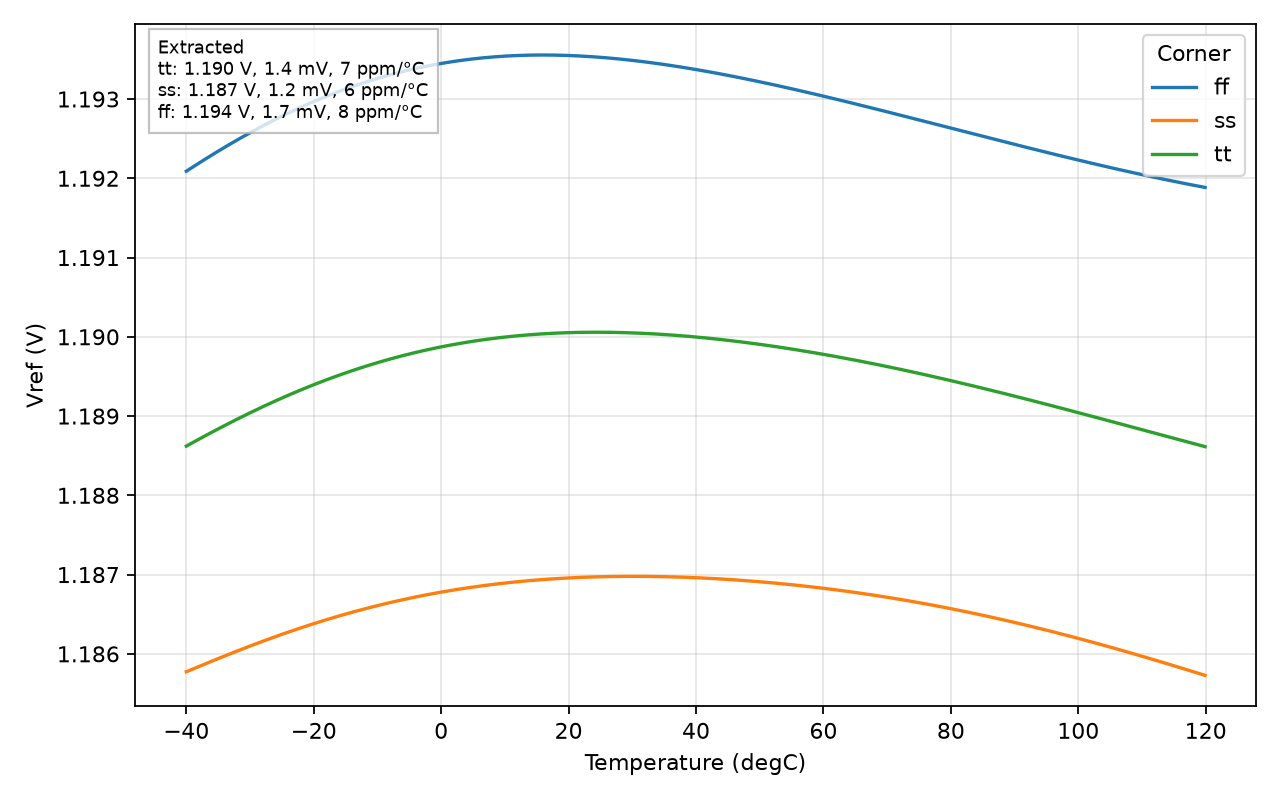
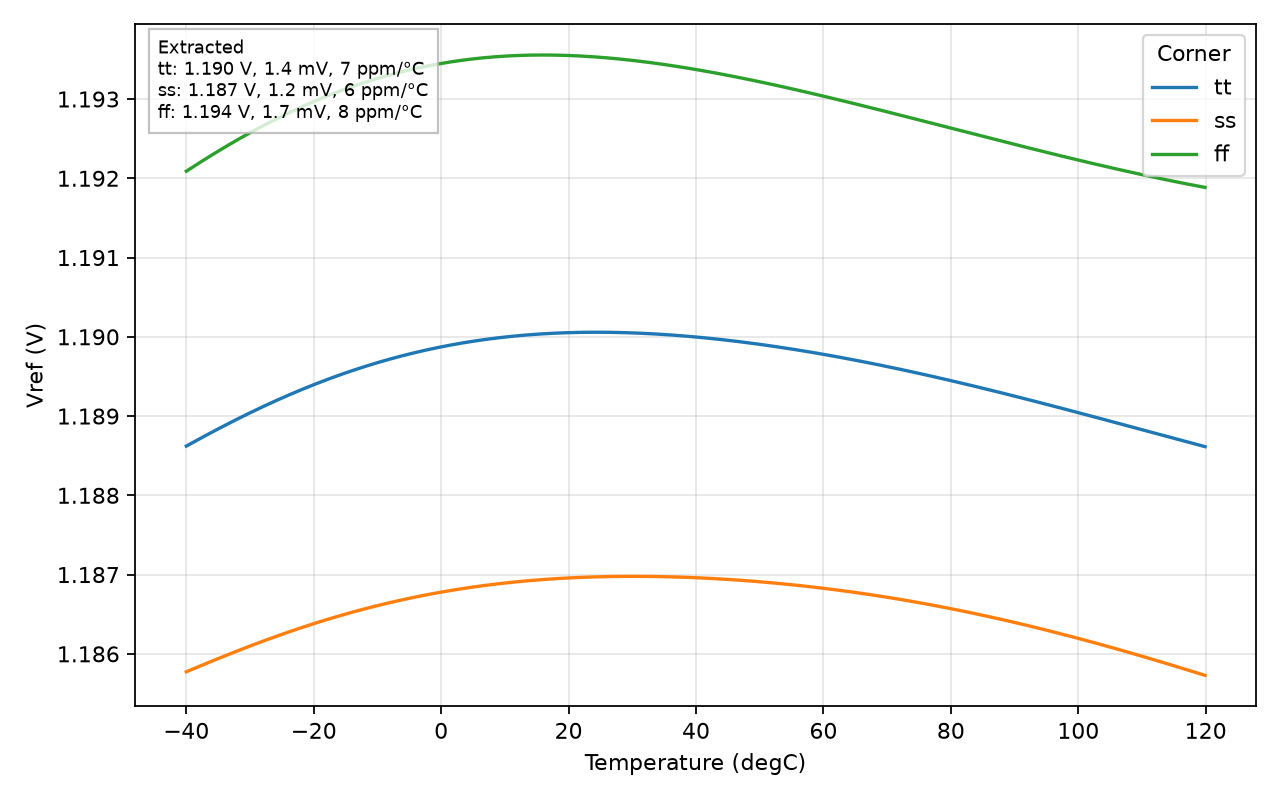
Clarify V2 and V3 operating regions

diff --git a/readme.md b/readme.md
@@ -8,17 +8,33 @@ The project is developed around an Xschem-first workflow. Xschem schematics
 are the source of truth; ngspice is used as the simulator through the
 schematic simulation setup and generated netlists.
 
+## What has been achieved
+
+- Built a 1.8 V bandgap reference around a PMOS-input OTA and an 8:2 PNP
+  emitter-area ratio.
+- Reworked the original diode-stacked topology into a lower-headroom feedback
+  topology with one PMOS and one BJT in each sensing branch.
+- Characterized the current V3 design from −40 °C to 120 °C across the `tt`,
+  `ss`, and `ff` SKY130 process corners.
+- Measured approximately 1.190 V at 27 °C, with 6--8 ppm/°C temperature
+  coefficient across the process corners.
+- Completed a 1,000-run `tt_mm` Monte Carlo analysis; the current design has
+  5.376% sample sigma relative to nominal, improved from the V2 result of
+  10.091%.
+- Verified that the PMOS devices in both V2 and V3 operate in the
+  weak-to-moderate inversion region.
+
 ## Project status
 
 - Target supply: 1.8 V
 - Process: SKY130A
 - Schematic editor: Xschem
 - Simulator: ngspice 47 or newer
-- Main circuit: bandgap reference with a two-stage amplifier
+- Main circuit: bandgap reference with a PMOS-input OTA
 
-The circuit is an experimental design and is not yet characterized as a
-production-ready reference. Startup, loop stability, PSRR, line regulation,
-and load regulation may still require additional work.
+The circuit is an experimental design, not a production-ready reference.
+Startup, loop stability, PSRR, line regulation, load regulation, and broader
+corner validation still require additional work.
 
 ## Requirements
 
@@ -90,11 +106,10 @@ simulation plots.
 
 ![OTA schematic](Bandgap/Schem_Res/OTA_schem.png)
 
-## Results
+## Generated outputs
 
-Rendered schematics and simulation plots are stored in
-`Bandgap/Schem_Res/`. The current repository includes the bandgap and OTA
-schematics, process-corner results, and Monte Carlo results.
+Rendered schematics, process-corner reports, and Monte Carlo plots are stored
+in `Bandgap/Schem_Res/`.
 
 ## Bandgap design evolution
 
@@ -112,18 +127,18 @@ This project evolved through the following stages:
    resistor model. V1 is the NMOS-input OTA baseline used for the first
    non-ideal implementation.
 3. **[V2 branch](https://github.com/iamanoob12/Bandgap/tree/V2)** - the
-   improved implementation uses a real two-stage OTA in the feedback loop,
+   improved implementation uses a PMOS-input OTA in the feedback loop,
    SKY130 high-poly (`res_high_po`) resistors, process-corner temperature
    sweeps, and Monte Carlo analysis. The typical-corner result is
-   approximately 1.161 V at 27 °C, with 4--6 ppm/°C temperature coefficient
+   approximately 1.161 V at 27 °C, with 6--8 ppm/°C temperature coefficient
    across the process corners.
 4. **[V3 branch](https://github.com/iamanoob12/Bandgap/tree/V3)** - keeps the
-   same bandgap topology and design concept as V2, while increasing the
-   transistor sizes in the OTA and Vbias-generation circuitry. The larger
-   devices are intended to reduce the OTA overdrive voltage ($V_{ov}$) and
-   improve the available operating margin. Like V2, V3 uses SKY130
-   high-poly (`res_high_po`) resistors. The current V3 typical-corner result
-   is approximately 1.190 V at 27 °C, with 6--8 ppm/°C temperature
+   same PMOS-input OTA, bandgap topology, and design concept as V2, while
+   increasing the transistor sizes in the OTA and Vbias-generation circuitry.
+   The larger devices are intended to reduce the OTA overdrive voltage
+   ($V_{ov}$) and improve the available operating margin. Like V2, V3 uses
+   SKY130 high-poly (`res_high_po`) resistors. The current V3 typical-corner
+   result is approximately 1.190 V at 27 °C, with 6--8 ppm/°C temperature
    coefficient across the process corners.
 
 Simulation data in `Bandgap/Result/` may be regenerated when the schematic or
@@ -141,7 +156,7 @@ temperature coefficient extracted from the raw files.
 
 ## Vref versus temperature and process corner
 
-Setup: 1.8 V supply, −40 °C to 125 °C, and the OTA in the loop. The process
+Setup: 1.8 V supply, −40 °C to 120 °C, and the OTA in the loop. The process
 corners are:
 
 - `tt`: typical process models, used for the nominal baseline.
@@ -161,13 +176,9 @@ additional process corner.
 | ss     | ≈ 1.1870 V   | ≈ 1.1857 V (119.9 °C) | ≈ 1.1870 V (30.2 °C)  | ≈ 1.2 mV | ≈ 6 | ≈ -3 mV (-0.3 %) |
 | ff     | ≈ 1.1935 V   | ≈ 1.1919 V (119.9 °C) | ≈ 1.1936 V (16 °C)  | ≈ 1.7 mV | ≈ 8 | ≈ +3 mV (+0.3 %) |
 
-Temperature coefficient is the box method: TC = (Vmax − Vmin) / (Vref(27 °C) · 165 °C) · 10⁶.
+Temperature coefficient is the box method: TC = (Vmax − Vmin) / (Vref(27 °C) · 160 °C) · 10⁶.
 
 Notes:
-- The TT result is ≈ 1.190 V, with the V3 sizing changes shifting the nominal
-  output relative to the earlier V2 result.
-- The temperature coefficient ranges from approximately 6 to 8 ppm/°C across
-  the three process corners.
 - The corner-to-corner spread at 27 °C (ss to ff ≈ 6.5 mV, ≈ 0.55 %) is
   smaller than the earlier V2 spread.
 - All three corners remain close to the 1.19 V nominal target; process corners
@@ -226,8 +237,8 @@ revisions:
 | Revision | OTA input pair and sizing | Nominal Vref | Mean Vref | Median Vref | Sample sigma | Observed behavior |
 | -------- | ------------------------- | ------------ | --------- | ----------- | ------------ | ----------------- |
 | V1 | NMOS input pair; undersized for mismatch margin | 1.148697 V | 1.148697 V | 1.175685 V | n/a | Very wide, asymmetric spread with many failed low-output runs |
-| V2 | PMOS input OTA with a larger PTAT mirror current; OTA still undersized | 1.160903 V | 1.159738 V | 1.163740 V | 0.117148 V (117.15 mV, 10.091%) | Centered distribution, but significant mismatch sensitivity remains |
-| V3 | Larger OTA devices to further reduce $V_{ov}$ | 1.190056 V | 1.184496 V | 1.183755 V | 0.063974 V (63.974 mV, 5.376%) | Improved operating margin and mismatch behavior relative to V1 and V2 |
+| V2 | PMOS-input OTA with larger PTAT mirror current; weak-to-moderate inversion | 1.160903 V | 1.159738 V | 1.163740 V | 0.117148 V (117.15 mV, 10.091%) | Centered distribution, but significant mismatch sensitivity remains |
+| V3 | Larger PMOS-input OTA devices; weak-to-moderate inversion | 1.190056 V | 1.184496 V | 1.183755 V | 0.063974 V (63.974 mV, 5.376%) | Improved operating margin and mismatch behavior relative to V1 and V2 |
 
 V1's poor Monte Carlo behavior is caused by the two-stage OTA's NMOS input
 pair. When mismatch separates the input devices, the input operating point can
@@ -235,17 +246,13 @@ be driven too low, causing failed Monte Carlo runs whose bandgap output is
 approximately 0.5 V at 27 °C rather than the intended regulated value.
 
 V2 replaces the NMOS-input OTA with a PMOS-input OTA and increases the PTAT
-mirror current. This avoids the dominant V1 input-pair mismatch problem:
-the PMOS and NMOS threshold voltages have different temperature behavior, and
-the PMOS threshold magnitude decreases much more strongly with temperature
-than the NMOS threshold voltage. However, the OTA sizing is still
-insufficient: without mismatch, its initial overdrive voltage is only about
-1--3 mV, leaving little margin for device variation.
+mirror current. Its weak-to-moderate inversion operation avoids the dominant
+V1 input-pair mismatch problem, but the OTA remains undersized and has only
+about 1--3 mV of initial overdrive voltage.
 
-V3 increases the OTA device sizes to further reduce the initial overdrive
-voltage and improve the available operating margin. This is the sizing change
-described in the V3 design rationale above; it is intended to make the loop
-less sensitive to mismatch rather than change the bandgap topology.
+V3 keeps the PMOS-input OTA and weak-to-moderate inversion operation while
+increasing device sizes to improve operating margin and reduce mismatch
+sensitivity. The detailed topology and sizing rationale follows below.
 
 ![V1 Monte Carlo comparison](Bandgap/Schem_Res/V1_monte_carlo.png)
 
@@ -304,10 +311,10 @@ current mirror to operate in saturation.
 The V2 and V3 value of $R_1=500\ \Omega$ is half the value used in the
 Old-Bandgap design. This lower resistance is intentional. It increases the
 PTAT current produced by the $\Delta V_{BE}$ term and allows the PMOS load
-above the PNP devices to operate closer to the weak-inversion/strong-inversion
-transition, rather than being limited by the low-current operating point of
-the earlier design. The PMOS operating region and its margin should still be
-checked across process, temperature, and supply corners.
+above the PNP devices. In both V2 and V3, the verified operating region is
+weak-to-moderate inversion rather than moderate-to-strong inversion. V3
+retains this topology while changing device sizing to improve operating
+margin.
 
 The CTAT branch is different from the PTAT core: it uses a single PNP rather
 than the 8:2 PNP pair. Its temperature dependence is therefore obtained from
